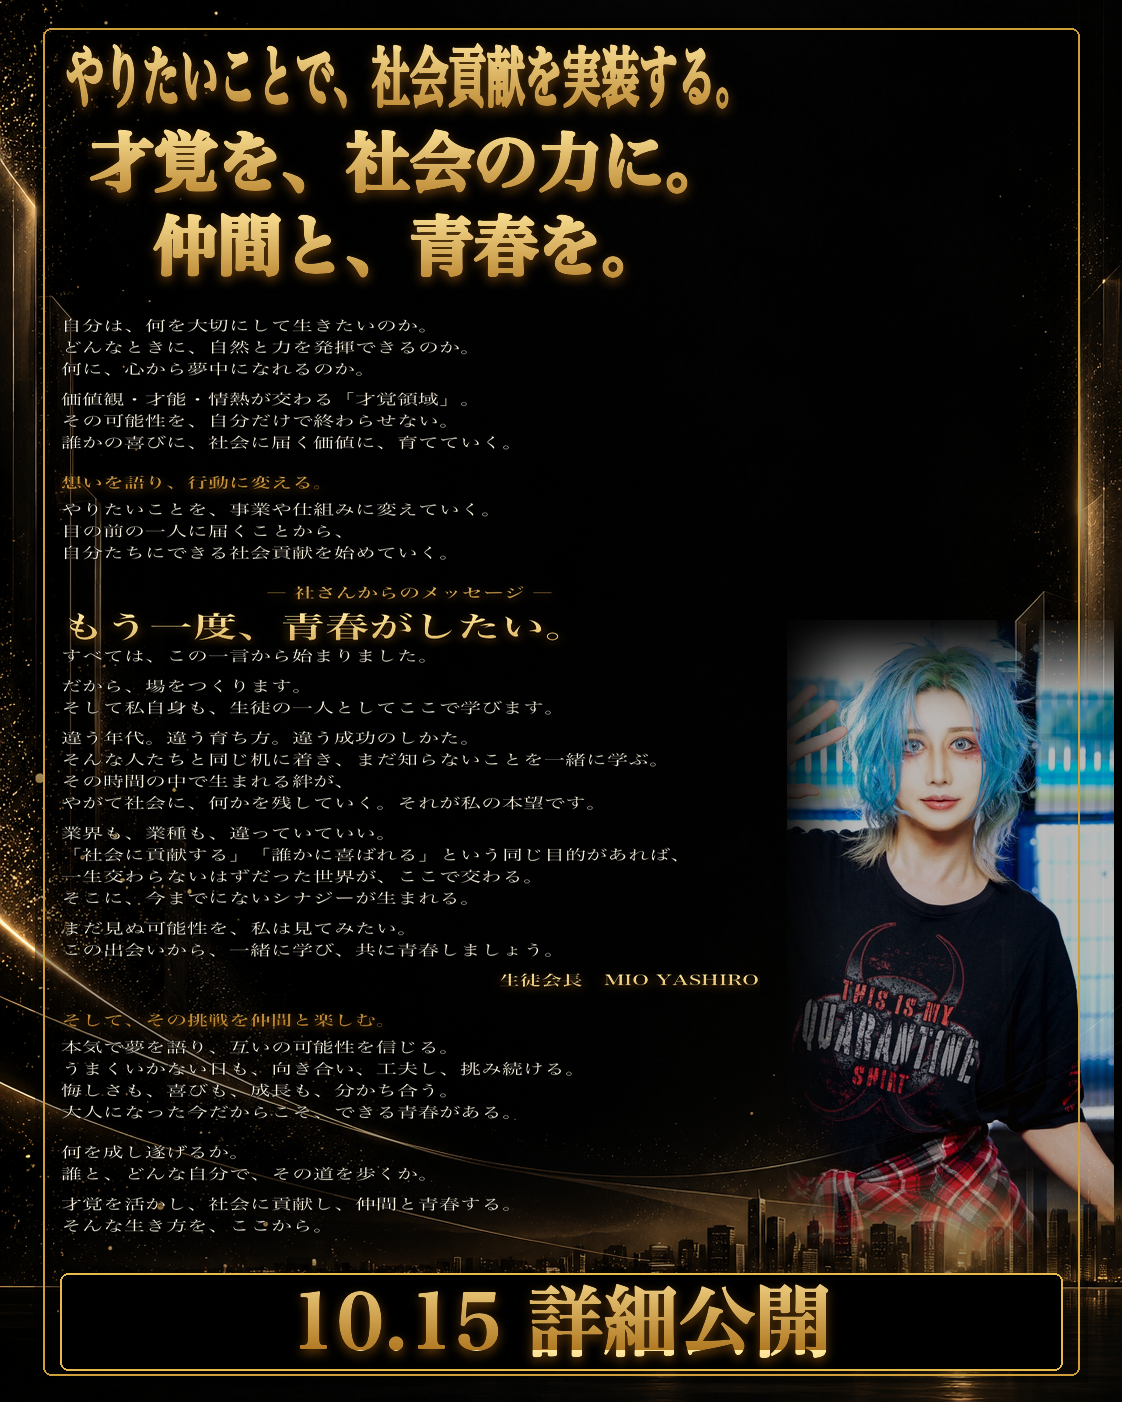
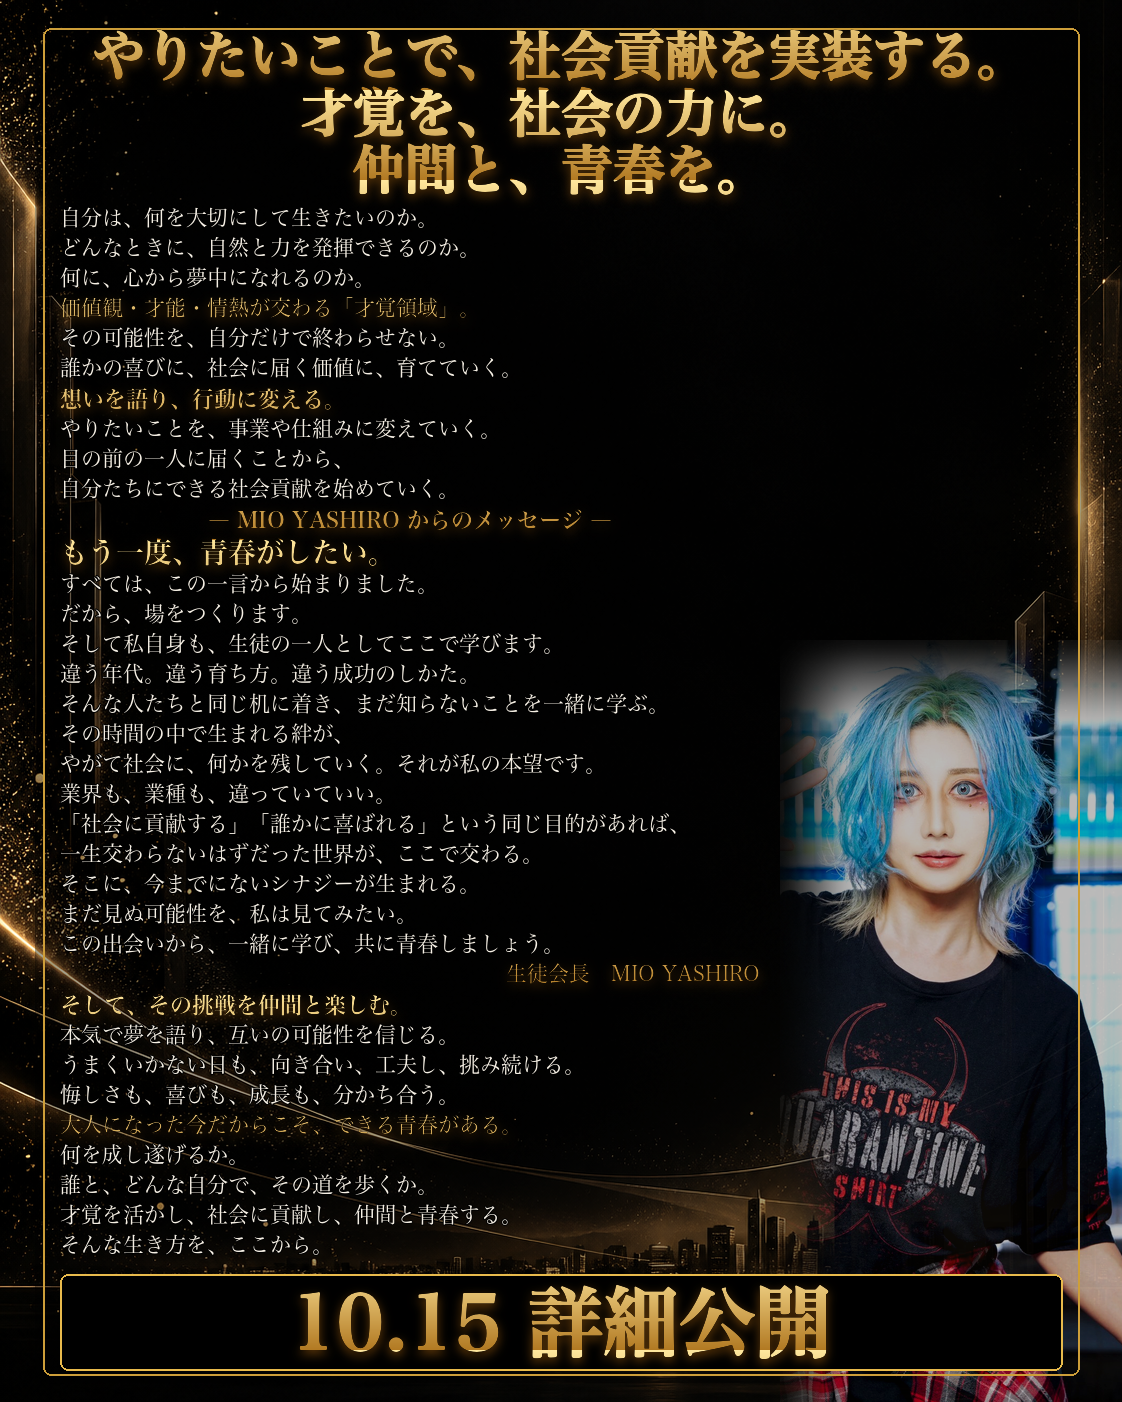
社美緒フライヤー②：全文版も MIO YASHIRO 統一で再出力

diff --git a/docs/shami-flyer-2/build_full.py b/docs/shami-flyer-2/build_full.py
@@ -1,5 +1,5 @@
 #!/usr/bin/env python3
-"""Deterministically build the second Shagakuen announcement flyer."""
+"""Build the 1122 x 1402 one-column Shagakuen announcement flyer."""
 
 from pathlib import Path
 import re
@@ -10,11 +10,12 @@ COPY, BG, MIO = ROOT / "copy.md", ROOT / "ref/bg.png", ROOT / "ref/mio.jpg"
 OUT = ROOT / "out/flyer2_final.png"
 W, H = 1122, 1402
 FONT = "/System/Library/Fonts/ヒラギノ明朝 ProN.ttc"
-CREAM, MUTED = (248, 241, 222, 255), (224, 215, 193, 255)
+CREAM = (245, 239, 228, 255)
 GOLD_TOP, GOLD_BOTTOM = (255, 231, 157, 255), (178, 122, 35, 255)
 TEXT_X, TEXT_RIGHT = 60, 760
-PHOTO_BOX = (780, 700, 1122, 1255)
-BOXES = []
+PHOTO_BOX = (780, 640, 1122, 1402)
+CTA_BOX = (60, 1274, 1062, 1370)
+BODY_SIZE, BODY_STEP = 21, round(21 * 1.45)
 
 
 def font(size, bold=False):
@@ -35,8 +36,9 @@ def gold_layer(size, mask):
     gd = ImageDraw.Draw(grad)
     for y in range(size[1]):
         t = (y % 90) / 89
-        c = tuple(round(GOLD_TOP[i] * (1-t) + GOLD_BOTTOM[i] * t) for i in range(3)) + (255,)
-        gd.line((0, y, size[0], y), fill=c)
+        color = tuple(round(GOLD_TOP[i] * (1 - t) + GOLD_BOTTOM[i] * t)
+                      for i in range(3)) + (255,)
+        gd.line((0, y, size[0], y), fill=color)
     return Image.composite(grad, Image.new("RGBA", size), mask)
 
 
@@ -51,161 +53,145 @@ def gold_text(base, xy, text, f, anchor="la", stroke=0):
 
 
 def add_portrait(base):
+    """Place the portrait in the specified lower-right field with soft top/left edges."""
     src = Image.open(MIO).convert("RGB").crop((250, 65, 995, 1510))
     pw, ph = PHOTO_BOX[2] - PHOTO_BOX[0], PHOTO_BOX[3] - PHOTO_BOX[1]
-    src.thumbnail((pw, ph), Image.Resampling.LANCZOS)
-    pic = Image.new("RGBA", (pw, ph))
-    pic.paste(ImageEnhance.Brightness(ImageEnhance.Contrast(src).enhance(1.08)).enhance(.78),
-              ((pw-src.width)//2, 0))
-    m = Image.new("L", (pw, ph), 0)
-    p = m.load()
+    scale = max(pw / src.width, ph / src.height)
+    src = src.resize((round(src.width * scale), round(src.height * scale)), Image.Resampling.LANCZOS)
+    left = (src.width - pw) // 2
+    src = src.crop((left, 0, left + pw, ph))
+    src = ImageEnhance.Brightness(ImageEnhance.Contrast(src).enhance(1.08)).enhance(.78)
+    pic = src.convert("RGBA")
+    mask = Image.new("L", (pw, ph), 0)
+    pix = mask.load()
     for y in range(ph):
         for x in range(pw):
-            # Required soft left/top blend; bottom clears the CTA band.
-            p[x, y] = min(238, int(min(1, x/72) * min(1, y/85) * min(1, (ph-y)/95) * 255))
-    pic.putalpha(m.filter(ImageFilter.GaussianBlur(10)))
+            pix[x, y] = min(238, int(min(1, x / 72) * min(1, y / 85) * 255))
+    pic.putalpha(mask.filter(ImageFilter.GaussianBlur(10)))
     base.alpha_composite(pic, PHOTO_BOX[:2])
 
 
-def fitted_title(base, text, y):
-    """Render every headline at one natural 55px size, without scaling."""
-    f = font(55, True)
-    cx = W // 2
-    gold_text(base, (cx, y), text, f, anchor="ma", stroke=1)
-    bb = ImageDraw.Draw(base).textbbox((cx, y), text, font=f, anchor="ma", stroke_width=1)
-    assert bb[2] - bb[0] <= 1000, f"headline wider than 1000px: {text}"
-    BOXES.append((*bb, text))
-    return y + 60
+def text_box(draw, xy, text, f, anchor="la", stroke=0):
+    return (*draw.textbbox(xy, text, font=f, anchor=anchor, stroke_width=stroke), text)
 
 
-def body_layout(base, s, target_top, target_bottom):
-    """Flow 24px copy at 1.5 leading through areas that exclude the portrait."""
-    fs = 24
-    f, fb, fh = font(fs), font(29, True), font(29, True)
-    leading, gap = round(fs * 1.5), 20
-    # Two upper columns, then the 700px-wide lane beside the portrait.
-    regions = [(60, 545, target_top, 695), (565, 1062, target_top, 695),
-               (60, 400, 700, target_bottom), (420, 760, 700, target_bottom)]
-    ri, x, right, y, bottom = 0, *regions[0]
-    d = ImageDraw.Draw(base)
-    boxes = []
+def render_title(base, lines, boxes):
+    """Three centered, unscaled lines at one font size, all within 1000 px."""
+    draw = ImageDraw.Draw(base)
+    title_font = font(52, True)
+    y = 29
+    for line in lines:
+        gold_text(base, (W // 2, y), line, title_font, anchor="ma", stroke=1)
+        box = text_box(draw, (W // 2, y), line, title_font, "ma", 1)
+        assert box[2] - box[0] <= 1000, f"headline wider than 1000px: {line}"
+        boxes.append(box)
+        y += 57
+    return y + 6
 
-    def advance_region(reason=""):
-        nonlocal ri, x, right, y, bottom
-        ri += 1
-        assert ri < len(regions), f"body copy does not fit available regions: {reason}"
-        x, right, y, bottom = regions[ri]
 
-    def wrap(text, ff, width):
-        out, cur = [], ""
-        for ch in text:
-            trial = cur + ch
-            if cur and ff.getlength(trial) > width:
-                out.append(cur); cur = ch
-            else:
-                cur = trial
-        if cur: out.append(cur)
-        if len(out) > 1 and len(out[-1]) <= 2 and len(out[-2]) > 3:
-            out[-1] = out[-2][-2:] + out[-1]
-            out[-2] = out[-2][:-2]
-        return out or [""]
+def render_copy(base, source, y, boxes):
+    """Render copy.md verbatim: one source line is exactly one rendered line."""
+    draw = ImageDraw.Draw(base)
+    body = font(BODY_SIZE)
+    subhead = font(22, True)
+    hero = font(28, True)
+    blocks = []
 
-    def put(text, kind="body", extra_gap=0):
+    def put(line, f=body, gold=False, x=TEXT_X, anchor="la", step=BODY_STEP):
         nonlocal y
-        ff = fh if kind == "hero" else (fb if kind != "body" else f)
-        step = max(leading, round(ff.size * 1.28))
-        for line in wrap(text, ff, right-x):
-            # The region limit applies to visible glyphs, not the following leading.
-            if y + ff.getbbox(line, stroke_width=1)[3] > bottom:
-                advance_region(f"{line!r} at y={y}, bottom={bottom}")
-            if kind == "body":
-                d.text((x, y), line, font=ff, fill=(245,239,228,255),
-                       stroke_width=1, stroke_fill=(0,0,0,190))
-            else:
-                gold_text(base, (x, y), line, ff)
-            bb = d.textbbox((x, y), line, font=ff, stroke_width=1)
-            boxes.append((*bb, line))
-            y += step
-        y += extra_gap
+        assert "\n" not in line
+        if gold:
+            gold_text(base, (x, y), line, f, anchor=anchor)
+        else:
+            draw.text((x, y), line, font=f, anchor=anchor, fill=CREAM,
+                      stroke_width=1, stroke_fill=(0, 0, 0, 190))
+        box = text_box(draw, (x, y), line, f, anchor, 1 if not gold else 0)
+        boxes.append(box)
+        y += step
+        return box
 
-    def block(lines, gap_after=True):
-        nonlocal y
-        for line in lines:
-            if line:
-                # Highlight requested key phrases without shrinking the body copy.
-                highlight = any(k in line for k in ("才覚領域", "できる青春"))
-                put(line, "gold" if highlight else "body")
-            else:
-                # Paragraph separation is already represented by the 20px block gap.
-                pass
-        if gap_after: y += gap
+    def paragraph_lines(key):
+        return [line for line in source[key].splitlines() if line]
 
-    block(s["リード"].splitlines())
-    put("想いを語り、行動に変える。", "gold")
-    block(s["想いを語り、行動に変える。"].splitlines())
-    put("― MIO YASHIRO からのメッセージ ―", "gold")
-    msg = s["MIO YASHIRO からのメッセージ"].splitlines()
-    put(msg[0], "hero")
-    block(msg[1:-1], gap_after=False)
-    put(msg[-1], "gold", gap)
-    # This heading and everything after it must live in the left photo lane.
-    if ri < 2:
-        ri = 1
-        advance_region()
-    put("そして、その挑戦を仲間と楽しむ。", "gold")
-    block(s["そして、その挑戦を仲間と楽しむ。"].splitlines())
-    block(s["結び"].splitlines(), gap_after=False)
-    return boxes
+    # Above the message heading the available field is 1000 px wide.
+    for line in paragraph_lines("リード"):
+        put(line, gold=("才覚領域" in line))
+    y += 1
+    put("想いを語り、行動に変える。", subhead, True)
+    for line in paragraph_lines("想いを語り、行動に変える。"):
+        put(line)
+    y += 1
+    message_heading = put("― MIO YASHIRO からのメッセージ ―", subhead, True,
+                          x=(TEXT_X + TEXT_RIGHT) // 2, anchor="ma")
+    assert message_heading[1] < PHOTO_BOX[1], "message heading must be above portrait"
+
+    # From here on every line is confined to x=60..760 beside the portrait.
+    msg = paragraph_lines("MIO YASHIRO からのメッセージ")
+    put(msg[0], hero, True, step=34)
+    for line in msg[1:-1]:
+        put(line)
+    y += 0
+    put(msg[-1], body, True, x=TEXT_RIGHT, anchor="ra")
+    y += 1
+    put("そして、その挑戦を仲間と楽しむ。", subhead, True)
+    for line in paragraph_lines("そして、その挑戦を仲間と楽しむ。"):
+        put(line, gold=("できる青春" in line))
+    y += 0
+    for line in paragraph_lines("結び"):
+        put(line)
+    return y
 
 
-def assert_no_overlap(boxes):
+def assert_layout(boxes, message_index):
+    punctuation_only = re.compile(r"^[、。，．・！？）」』]+$")
     for i, a in enumerate(boxes):
-        for b in boxes[i+1:]:
-            # Touching edges are fine; actual glyph rectangles may not intersect.
+        assert not punctuation_only.fullmatch(a[4].strip()), f"orphan punctuation: {a[4]!r}"
+        for b in boxes[i + 1:]:
             overlap = a[0] < b[2] and b[0] < a[2] and a[1] < b[3] and b[1] < a[3]
             assert not overlap, f"text overlap: {a[4]!r} / {b[4]!r}"
-        if a[4] != "10.15 詳細公開":
-            assert a[0] >= TEXT_X-2 and a[2] <= 1064, f"text outside field: {a[4]!r}"
-        assert not (a[0] < PHOTO_BOX[2] and a[2] > PHOTO_BOX[0] and
-                    a[1] < PHOTO_BOX[3] and a[3] > PHOTO_BOX[1]), f"text in photo: {a[4]!r}"
+        if i >= message_index:
+            assert a[0] >= TEXT_X - 2 and a[2] <= TEXT_RIGHT + 2, f"text outside left lane: {a[4]!r}"
+            intrudes = (a[0] < PHOTO_BOX[2] and a[2] > PHOTO_BOX[0] and
+                        a[1] < CTA_BOX[1] and a[3] > PHOTO_BOX[1])
+            assert not intrudes, f"text in photo: {a[4]!r}"
 
 
 def main():
-    global BOXES
-    BOXES = []
-    s = sections(COPY)
+    source = sections(COPY)
+    forbidden = "\u793e\u3055\u3093"
+    assert forbidden not in COPY.read_text(encoding="utf-8"), f"forbidden wording: {forbidden}"
     base = Image.open(BG).convert("RGBA")
     assert base.size == (W, H)
     shade = Image.new("RGBA", base.size)
-    ImageDraw.Draw(shade).rectangle((35, 20, 1087, 1382), fill=(0,0,0,92))
+    ImageDraw.Draw(shade).rectangle((35, 20, 1087, 1382), fill=(0, 0, 0, 92))
     base.alpha_composite(shade)
     add_portrait(base)
-    d = ImageDraw.Draw(base)
-    d.rounded_rectangle((43, 28, 1079, 1375), radius=8, outline=(205,158,57,180), width=2)
+    draw = ImageDraw.Draw(base)
+    draw.rounded_rectangle((43, 28, 1079, 1375), radius=8,
+                           outline=(205, 158, 57, 180), width=2)
 
-    y = 34
-    for line in s["見出し（3行・据え置き）"].splitlines():
-        y = fitted_title(base, line, y)
-    # Requested fallback (c): 24px beneath the headline.
-    body_top = y + 24
-    cta_top = 1300
-    body_boxes = body_layout(base, s, body_top, cta_top-8)
-    BOXES.extend(body_boxes)
+    boxes = []
+    y = render_title(base, source["見出し（3行・据え置き）"].splitlines(), boxes)
+    before = len(boxes)
+    y = render_copy(base, source, y, boxes)
+    message_index = next(i for i, b in enumerate(boxes)
+                         if b[4] == "― MIO YASHIRO からのメッセージ ―") + 1
+    assert y <= CTA_BOX[1] - 5, f"copy reaches CTA band: y={y}"
 
-    # Full-width bottom anchor, deliberately above the inner frame baseline.
-    band = (60, cta_top, 1062, 1370)
-    d.rounded_rectangle(band, radius=8, fill=(0,0,0,224), outline=(232,186,76,240), width=2)
-    cta = s["CTA"]
-    cf = font(64, True)
-    gold_text(base, ((band[0]+band[2])//2, (band[1]+band[3])//2), cta, cf, anchor="mm", stroke=1)
-    bb = d.textbbox(((band[0]+band[2])//2, (band[1]+band[3])//2), cta, font=cf, anchor="mm", stroke_width=1)
-    BOXES.append((*bb, cta))
+    draw.rounded_rectangle(CTA_BOX, radius=8, fill=(0, 0, 0, 224),
+                           outline=(232, 186, 76, 240), width=2)
+    cta = source["CTA"]
+    cta_font = font(76, True)
+    center = ((CTA_BOX[0] + CTA_BOX[2]) // 2, (CTA_BOX[1] + CTA_BOX[3]) // 2)
+    gold_text(base, center, cta, cta_font, anchor="mm", stroke=1)
+    cta_box = text_box(draw, center, cta, cta_font, "mm", 1)
+    assert CTA_BOX[0] <= cta_box[0] and cta_box[2] <= CTA_BOX[2]
 
-    assert_no_overlap(BOXES)
+    assert_layout(boxes, message_index)
     OUT.parent.mkdir(exist_ok=True)
     base.convert("RGB").save(OUT, quality=96)
-    assert all(not (b[4].strip() in {"。", "い。", "ば、", "く。"}) for b in BOXES)
-    print(f"saved {OUT} ({W}x{H}); {len(BOXES)} line boxes; overlap/photo-field audit OK")
+    assert Image.open(OUT).size == (1122, 1402)
+    print(f"saved {OUT} ({W}x{H}); {len(boxes)} copy lines; final y={y}; audits OK")
 
 
 if __name__ == "__main__":
